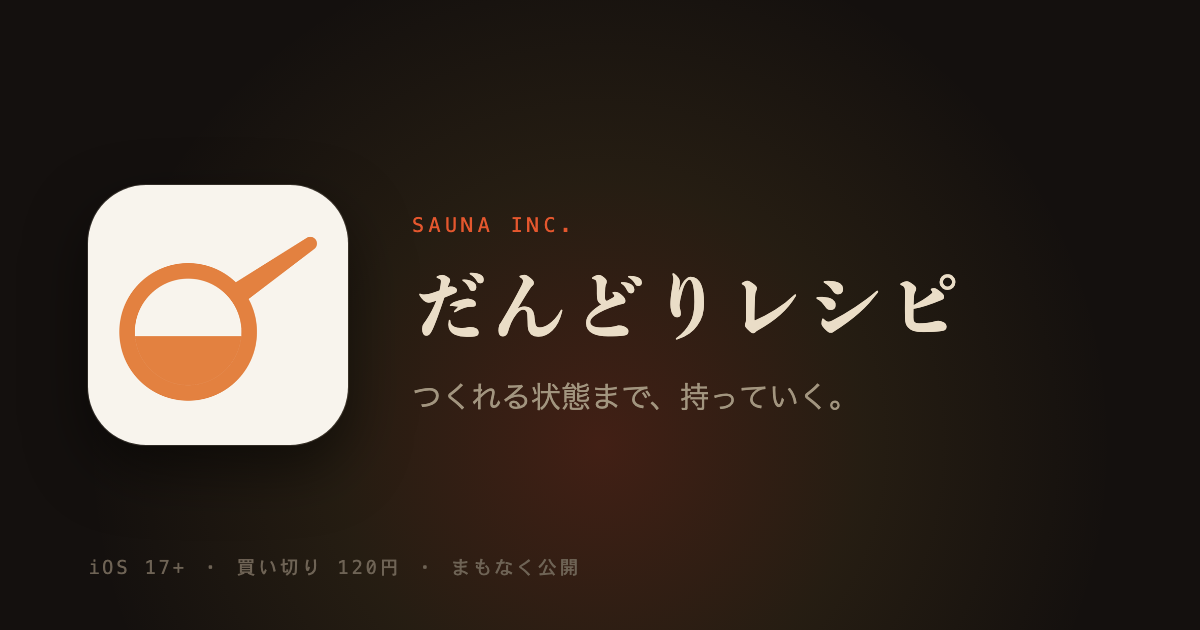
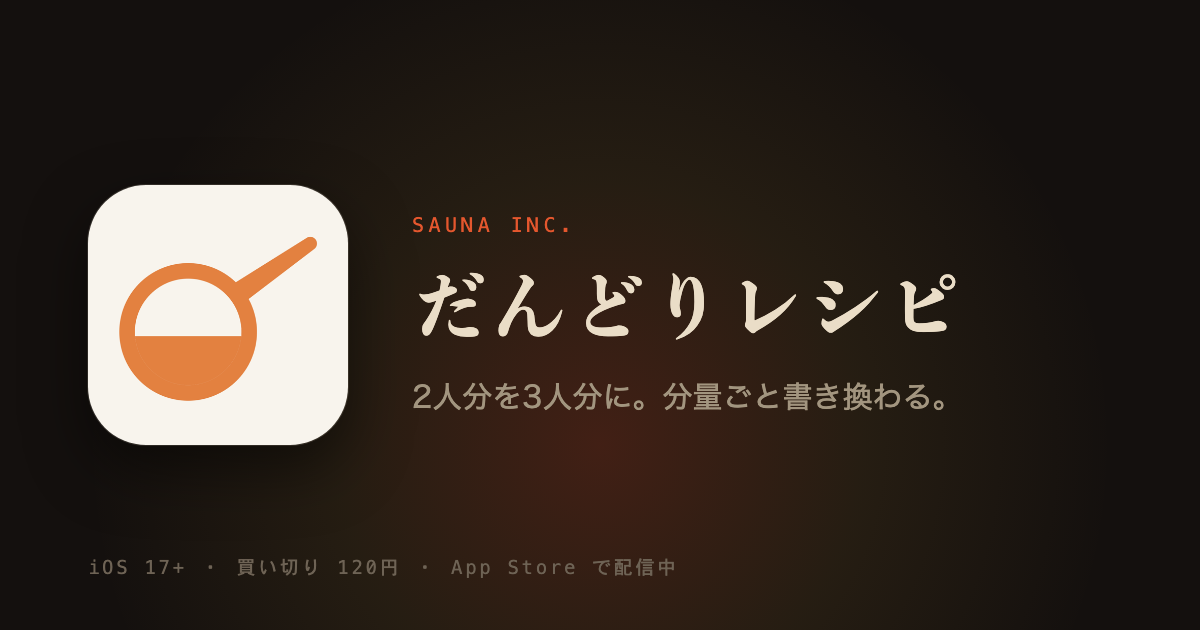
だんどりレシピLP: 準備中→配信中（DLボタン・QR・スマートバナー）、FVを「2人分を3人分に。分量ごと書き換わる。」に、1.0に無い写真取り込みの記載をFAQ・紹介文から削除
ASOサイクル4（11/5）。CSPはページ側456件とnetlify.toml側456件の完全一致を確認（追加1・欠落1＝support.htmlのFAQ構造化データ）。

Changed region(s): [[0.3392, 0.6032, 0.8017, 0.6635], [0.37, 0.8746, 0.555, 0.9349]]

diff --git a/apps/dandorirecipe.html b/apps/dandorirecipe.html
@@ -3,13 +3,13 @@
 <head>
 <meta charset="utf-8">
 <meta name="viewport" content="width=device-width, initial-scale=1">
-<title>だんどりレシピ ｜ 株式会社サウナ / Sauna Inc.</title>
+<title>だんどりレシピ｜人数で分量が変わるレシピ帳・献立と買い物リスト ｜ 株式会社サウナ</title>
 <meta name="description" content="だんどりレシピは、自分のレシピ帳を「作れる状態」まで持っていくアプリです。人数を変えると分量が変わり、献立から売り場順の買い物リストを作り、複数のタイマーを同時に走らせます。買い切り120円、広告なし、アカウント登録なし。株式会社サウナ（Sauna Inc.）が開発・サポートしています。">
 <link rel="canonical" href="https://tokyo357.com/apps/dandorirecipe">
 <meta name="theme-color" content="#101418">
 <meta property="og:type" content="website">
-<meta property="og:title" content="だんどりレシピ ｜ 株式会社サウナ / Sauna Inc.">
-<meta property="og:description" content="レシピを「作れる状態」まで持っていく。人数換算・売り場順の買い物リスト・同時タイマー。">
+<meta property="og:title" content="だんどりレシピ｜人数で分量が変わるレシピ帳・献立と買い物リスト">
+<meta property="og:description" content="2人分を3人分に。分量ごと書き換わるレシピ帳。献立から材料を合算して、売り場順の買い物リストに。買い切り120円・広告なし・登録不要。">
 <meta property="og:url" content="https://tokyo357.com/apps/dandorirecipe">
 <link rel="icon" href="/assets/logo.svg" type="image/svg+xml">
 <link rel="stylesheet" href="/assets/style.css?v=20260805">
@@ -18,6 +18,7 @@
 <meta property="og:image:width" content="1200">
 <meta property="og:image:height" content="630">
 <meta name="twitter:card" content="summary_large_image">
+<meta name="apple-itunes-app" content="app-id=6798937712">
 <!-- /BUILD:head -->
 
 <script type="application/ld+json">
@@ -66,7 +67,7 @@
       <div>
         <p class="updated">IOS 17+ · IPHONE · 買い切り 120円</p>
         <h1>だんどりレシピ</h1>
-        <p class="lede">レシピを集めることと、実際に作れることは違います。<strong>だんどりレシピは、集めたレシピを「今日これを作る」状態まで運ぶ</strong>ためのアプリです。</p>
+        <p class="lede"><strong>2人分を3人分に。分量ごと書き換わる。</strong>大さじ・小さじも1/3まで、計れる形で出します。決めた献立から材料を合算して、スーパーの売り場順の買い物リストまで。買い切り120円・広告なし・登録不要。</p>
         <div class="actions mt-s">
           <a class="btn btn--ghost" href="/support#dandorirecipe">よくある質問</a>
           <a class="btn btn--ghost" href="#help">お問い合わせ</a>
@@ -75,8 +76,6 @@
     </div>
 
     <div class="prose">
-
-      <p><strong>現在 App Store に申請の準備中です。</strong>公開されたらこのページからリンクします。</p>
 
       <h2>なぜ作ったか</h2>
       <p>レシピアプリは「探す」ことに寄っています。しかし実際に困るのは、探した後です。</p>
@@ -110,12 +109,16 @@
 <!-- BUILD:install -->
     <section class="install">
       <div>
-        <h2>だんどりレシピは現在 App Store 申請の準備中です</h2>
-        <p>iOS 17+ ／ 買い切り 120円 で公開予定です。公開されしだい、このページにダウンロードのリンクを出します。先に中身を知りたい方は、上の説明とよくある質問をご覧ください。</p>
+        <h2>だんどりレシピを使ってみる</h2>
+        <p>iOS 17+ ／ 買い切り 120円。この端末がiPhone・iPadなら、下のボタンから直接 App Store が開きます。</p>
         <div class="actions">
-          <a class="btn btn--ghost" href="/support#dandorirecipe">よくある質問</a>
-          <a class="btn btn--ghost" href="/apps/">ほかのアプリを見る</a>
+          <a class="btn" href="https://apps.apple.com/jp/app/id6798937712?ct=web_app_page&amp;mt=8">App Store でダウンロード</a>
+          <a class="btn btn--ghost" href="/support#dandorirecipe">先に質問を読む</a>
         </div>
+      </div>
+      <div class="install-qr">
+        <img src="/assets/qr/dandorirecipe.png" width="290" height="290" alt="だんどりレシピ の App Store ページのQRコード" loading="lazy">
+        <span>スマートフォンの<br>カメラで読み取る</span>
       </div>
     </section>
   <!-- /BUILD:install -->

diff --git a/support.html b/support.html
@@ -626,7 +626,7 @@
       "name": "写真からレシピを取り込めますか",
       "acceptedAnswer": {
         "@type": "Answer",
-        "text": "紙のレシピや料理本を撮影すると、材料と手順を読み取ります。読み取りは端末の中だけで行い、撮影した画像を保存も送信もしません。手書きや装飾の多いレイアウトでは読み取り精度が落ちるため、取り込んだあとに修正できるようにしています。"
+        "text": "いまの版（1.0）にはありません。読み取りの精度が、お金をいただける水準に届かなかったため外しました。代わりに、メモなどにある材料をまとめて貼り付けると、1行ずつ名前と分量に分けて入ります。料理の写真をレシピに添えることはできます。"
       }
     },
     {
@@ -2076,7 +2076,7 @@
         <details>
           <summary>写真からレシピを取り込めますか</summary>
           <div class="a">
-            <p>紙のレシピや料理本を撮影すると、材料と手順を読み取ります。読み取りは端末の中だけで行い、撮影した画像を保存も送信もしません。手書きや装飾の多いレイアウトでは読み取り精度が落ちるため、取り込んだあとに修正できるようにしています。</p>
+            <p>いまの版（1.0）にはありません。読み取りの精度が、お金をいただける水準に届かなかったため外しました。代わりに、メモなどにある材料をまとめて貼り付けると、1行ずつ名前と分量に分けて入ります。料理の写真をレシピに添えることはできます。</p>
           </div>
         </details>
         <details>

diff --git a/apps/kinshuwatch.html b/apps/kinshuwatch.html
@@ -192,11 +192,11 @@
             <em>買い切り 120円・配信中</em>
           </div>
         </a>
-        <a class="related-card" href="/apps/parkshiori">
-          <img src="/assets/icons/parkshiori.png" width="512" height="512" alt="" loading="lazy">
+        <a class="related-card" href="/apps/dandorirecipe">
+          <img src="/assets/icons/dandorirecipe.png" width="512" height="512" alt="" loading="lazy">
           <div>
-            <b>パークしおり</b>
-            <span>行きたいものを並べたしおりを、当日は上から『並ぶ→乗った』の2タップで埋めていく。実際の待ち時間・何回目・いくら使ったかが、そのまま日記になる。ランド・シー・ユニバ（TDL・TDS・USJ）対応の非公式記録アプリ。</span>
+            <b>だんどりレシピ</b>
+            <span>人数で分量が変わるレシピ帳。献立から売り場順の買い物リスト、同時に動くタイマー。</span>
             <em>買い切り 120円・配信中</em>
           </div>
         </a>

diff --git a/apps/shimekiri.html b/apps/shimekiri.html
@@ -193,11 +193,11 @@
             <em>買い切り 100円・配信中</em>
           </div>
         </a>
-        <a class="related-card" href="/apps/parkshiori">
-          <img src="/assets/icons/parkshiori.png" width="512" height="512" alt="" loading="lazy">
+        <a class="related-card" href="/apps/dandorirecipe">
+          <img src="/assets/icons/dandorirecipe.png" width="512" height="512" alt="" loading="lazy">
           <div>
-            <b>パークしおり</b>
-            <span>行きたいものを並べたしおりを、当日は上から『並ぶ→乗った』の2タップで埋めていく。実際の待ち時間・何回目・いくら使ったかが、そのまま日記になる。ランド・シー・ユニバ（TDL・TDS・USJ）対応の非公式記録アプリ。</span>
+            <b>だんどりレシピ</b>
+            <span>人数で分量が変わるレシピ帳。献立から売り場順の買い物リスト、同時に動くタイマー。</span>
             <em>買い切り 120円・配信中</em>
           </div>
         </a>

diff --git a/apps/tsuzukutodo.html b/apps/tsuzukutodo.html
@@ -206,11 +206,11 @@
             <em>買い切り 100円・配信中</em>
           </div>
         </a>
-        <a class="related-card" href="/apps/parkshiori">
-          <img src="/assets/icons/parkshiori.png" width="512" height="512" alt="" loading="lazy">
+        <a class="related-card" href="/apps/dandorirecipe">
+          <img src="/assets/icons/dandorirecipe.png" width="512" height="512" alt="" loading="lazy">
           <div>
-            <b>パークしおり</b>
-            <span>行きたいものを並べたしおりを、当日は上から『並ぶ→乗った』の2タップで埋めていく。実際の待ち時間・何回目・いくら使ったかが、そのまま日記になる。ランド・シー・ユニバ（TDL・TDS・USJ）対応の非公式記録アプリ。</span>
+            <b>だんどりレシピ</b>
+            <span>人数で分量が変わるレシピ帳。献立から売り場順の買い物リスト、同時に動くタイマー。</span>
             <em>買い切り 120円・配信中</em>
           </div>
         </a>

diff --git a/index.html b/index.html
@@ -237,7 +237,7 @@
       <a class="work rise mt-l" href="/apps/dandorirecipe">
         <img class="work-icon" src="/assets/icons/dandorirecipe.png" width="512" height="512" alt="だんどりレシピのアプリアイコン" loading="lazy" decoding="async">
         <div>
-          <p class="meta">iOS 17+ · IPHONE / IPAD · 買い切り 120円 · 準備中</p>
+          <p class="meta">iOS 17+ · IPHONE / IPAD · 買い切り 120円 · App Store 公開中</p>
           <h3>だんどりレシピ</h3>
           <p>つくれる状態まで、持っていく。人数換算・売り場順の買い物リスト・同時タイマー。写真からレシピを取り込める。</p>
           <span class="go">アプリの詳細とサポート →</span>

diff --git a/apps/index.html b/apps/index.html
@@ -103,8 +103,8 @@
           <img src="/assets/icons/dandorirecipe.png" width="512" height="512" alt="" loading="lazy">
           <div>
             <b>だんどりレシピ</b>
-            <span>人数換算・売り場順の買い物リスト・同時タイマー。写真からレシピを取り込める。</span>
-            <em>iOS 17+・買い切り 120円・準備中</em>
+            <span>人数で分量が変わるレシピ帳。献立から売り場順の買い物リスト、同時に動くタイマー。</span>
+            <em>iOS 17+・買い切り 120円・配信中</em>
           </div>
         </a>
         <a class="related-card" href="/apps/hanalog">

diff --git a/tools/apps.py b/tools/apps.py
@@ -55,10 +55,10 @@ APPS = [
          tagline="Lv1は必ず勝てる。Lv10は全力。",
          short="レベル1〜10のCPUと対戦。オフラインで遊べる。",
          topic="画面まわり・気晴らし"),
-    dict(slug="dandorirecipe", name="だんどりレシピ", appid="6798937712", state="prepare",
+    dict(slug="dandorirecipe", name="だんどりレシピ", appid="6798937712", state="live",
          price="買い切り 120円", os="iOS 17+",
-         tagline="つくれる状態まで、持っていく。",
-         short="人数換算・売り場順の買い物リスト・同時タイマー。写真からレシピを取り込める。",
+         tagline="2人分を3人分に。分量ごと書き換わる。",
+         short="人数で分量が変わるレシピ帳。献立から売り場順の買い物リスト、同時に動くタイマー。",
          topic="毎日の記録"),
     dict(slug="hanalog", name="ハナログ", appid="6798935243", state="prepare",
          price="無料（120円の買い切りで無制限）", os="iOS 17+",
